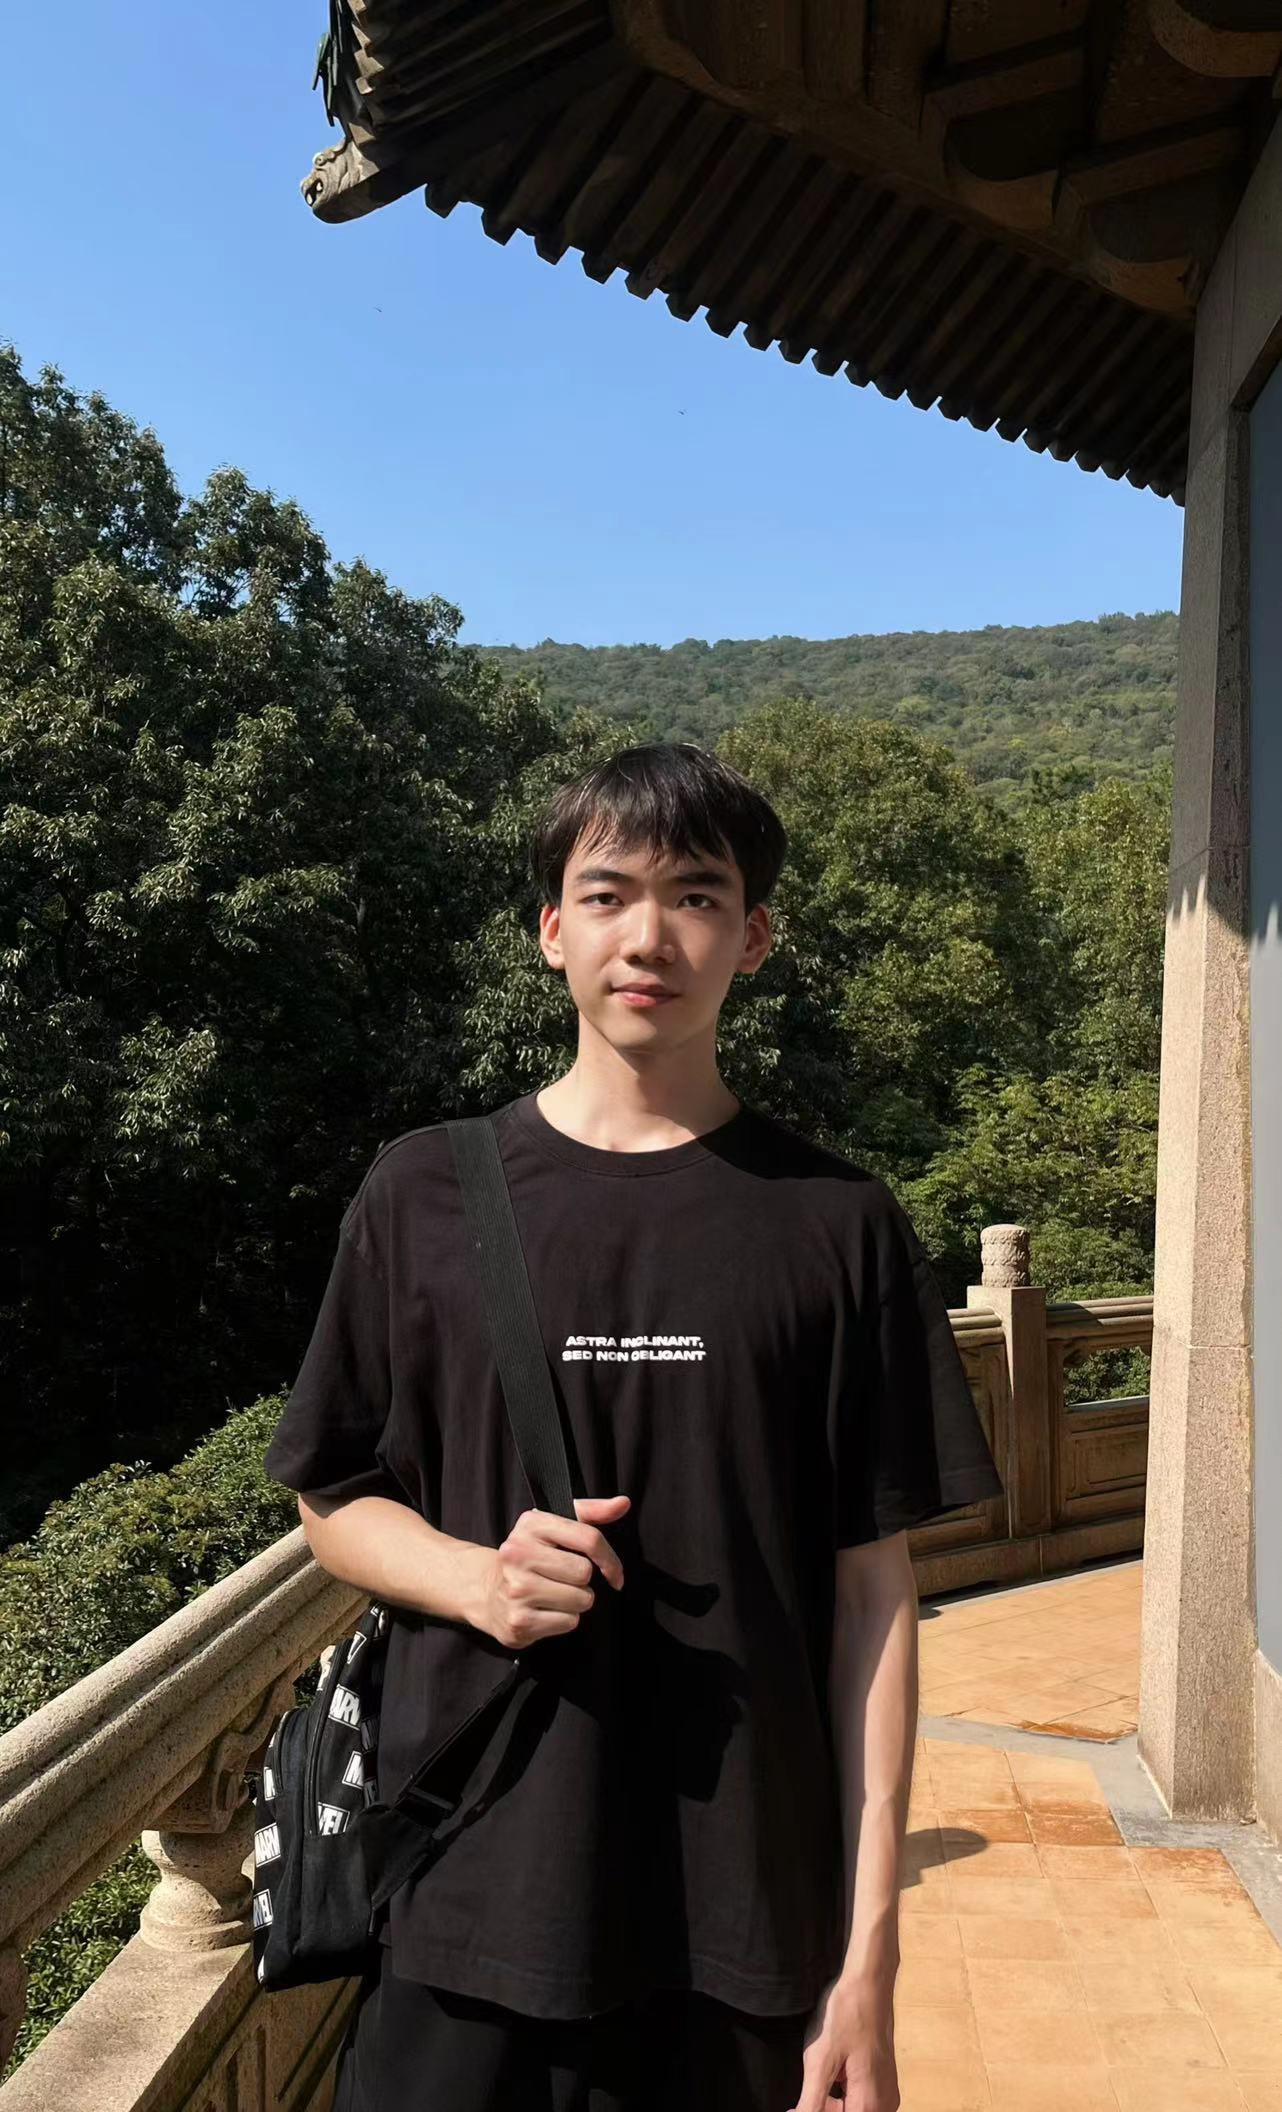
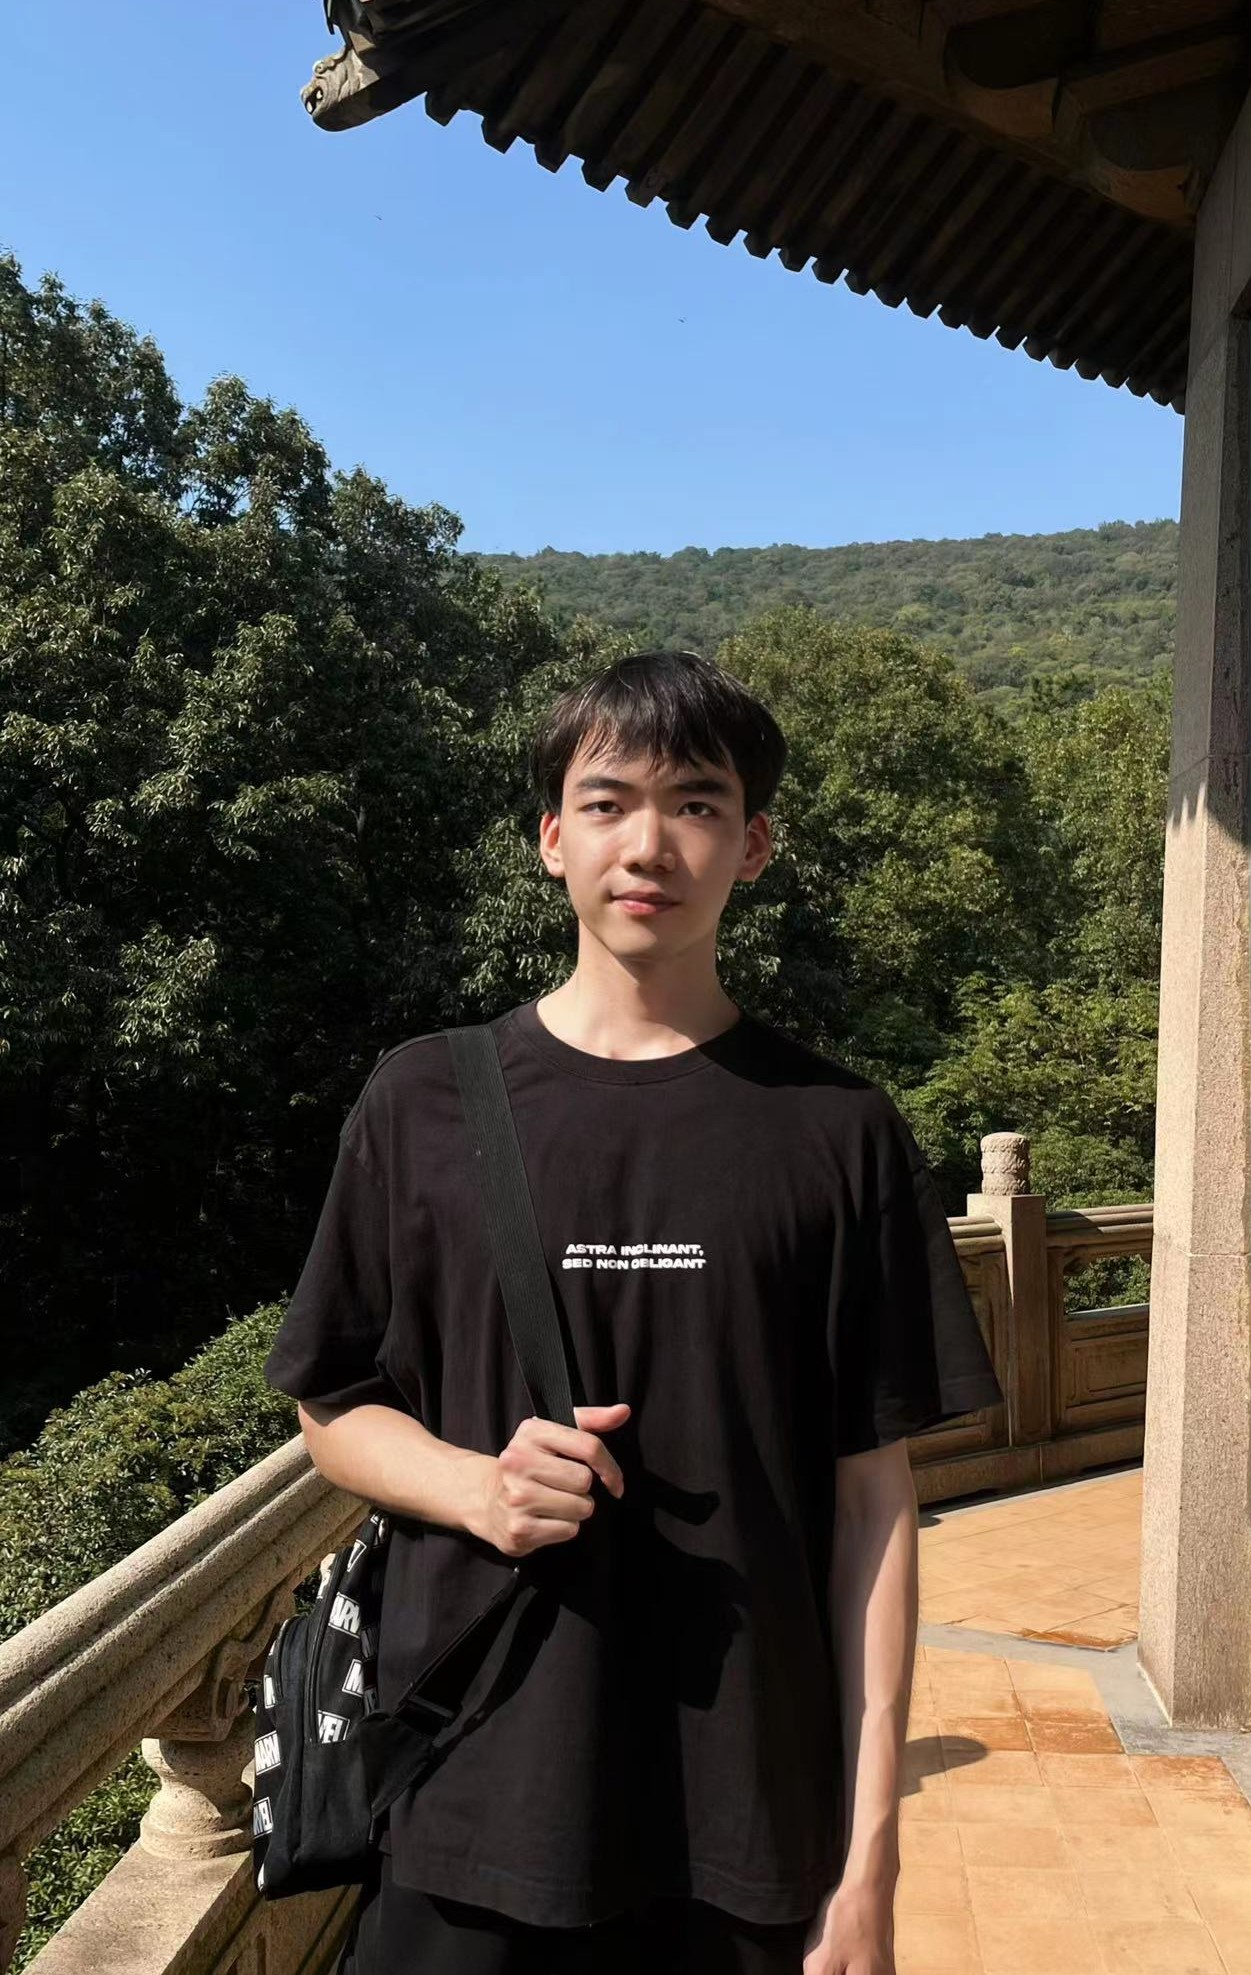
1

diff --git a/index.md b/index.md
@@ -4,9 +4,9 @@ layout: page
 
 ## About Me
 
-<img src="https://jcyang101.github.io/images/mine.jpg" class="floatpic" width="360" height="593">
+<img src="https://jcyang101.github.io/images/mine.jpg" class="floatpic" width="360" height="568">
 
-I am a second-year Master's student in School of Automation, [<font color='DarkMagenta'>Southeast University</font>](https://www.seu.edu.cn/english/), China.
+I am a second-year Master's student in School of Automation, [<font color='DarkMagenta'>Southeast University</font>](https://www.seu.edu.cn/english/), China, where I am fortunately advised by Prof. [<font color='DarkMagenta'>Changyin Sun</font>](https://ieeexplore.ieee.org/author/37279060100).
 I study reinforcement learning and robot control.
 Here is my [<font color='DarkMagenta'>Google Scholar</font>](https://scholar.google.com/citations?user=CdTephgAAAAJ&hl).
 My current research focuses on:
